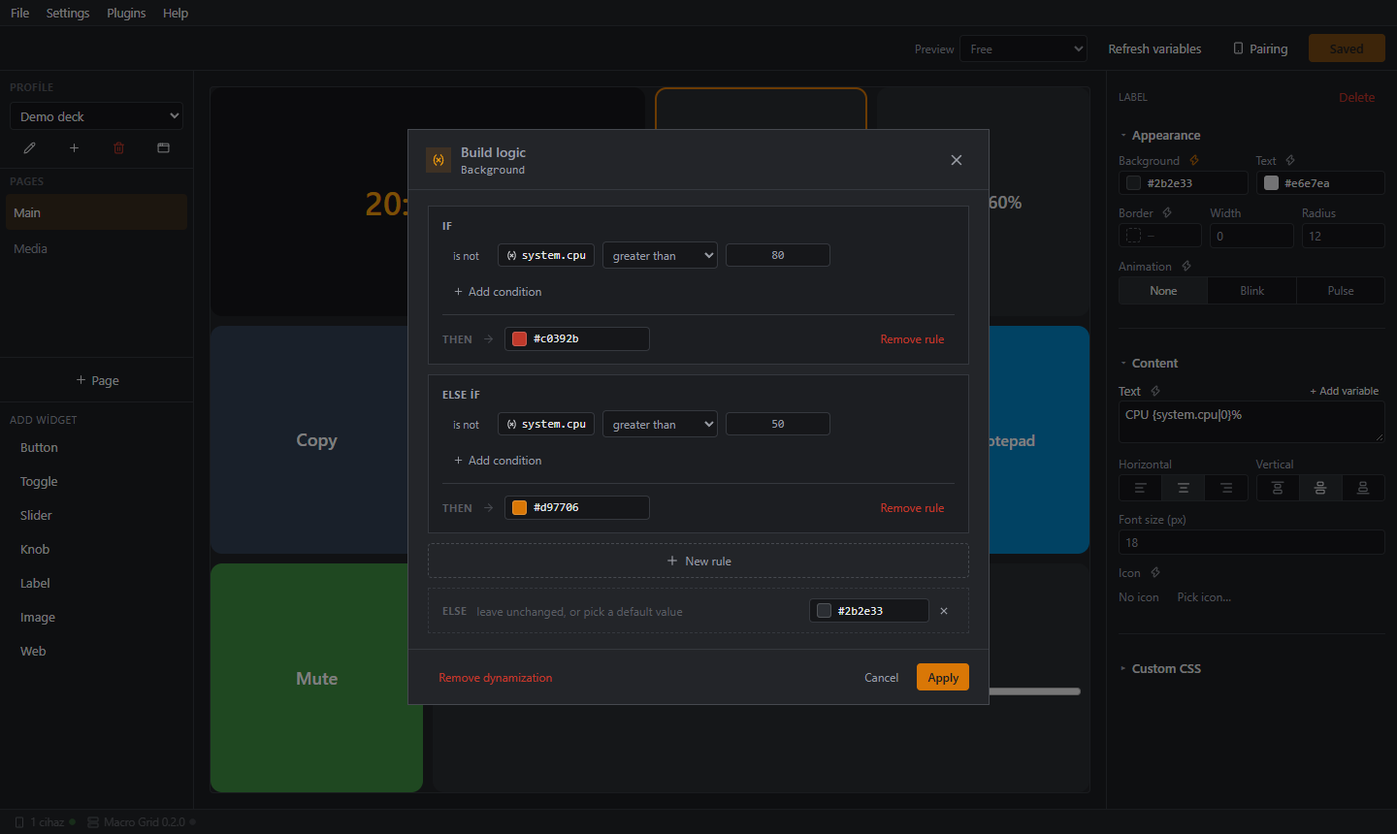
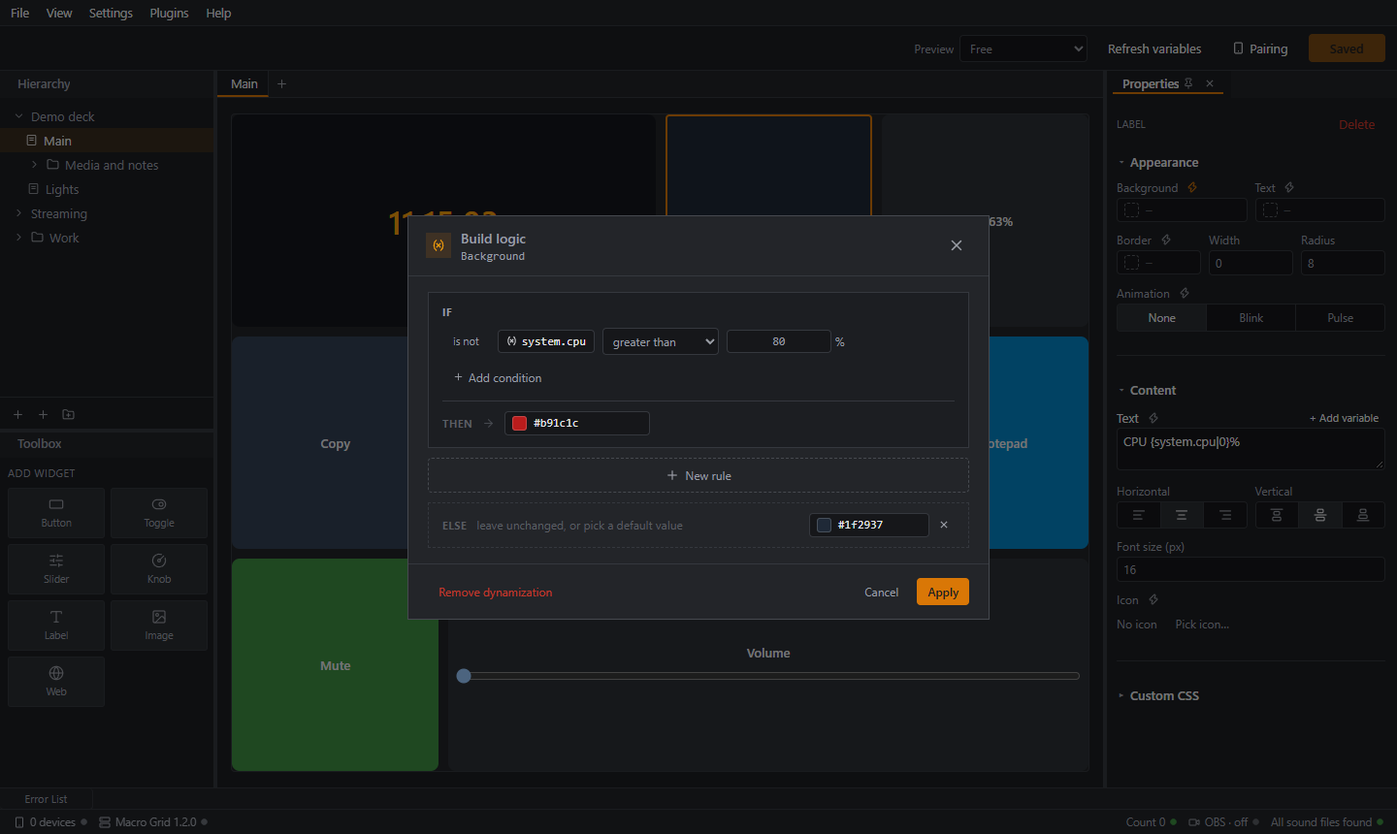
docs(website): refresh editor screenshots and guides for the docking workspace

diff --git a/website/tr/guide/editor.md b/website/tr/guide/editor.md
@@ -1,28 +1,43 @@
 # Düzenleyici
 
-![Demo deck'li Macro Grid düzenleyicisi](/img/editor-overview.png)
+![Macro Grid düzenleyicisi: solda klasörlü Hiyerarşi ağacı, ortada açık sayfa, sağda Özellikler](/img/editor-overview.png)
 
 Düzenleyici, sunucunun kendi penceresinde (sistem tepsisi simgesinden) açılır. Yalnızca bilgisayarın kendisinde çalışır. Ağınızdaki diğer cihazlar açamaz.
 
 ## Yerleşim
 
-- **Menü çubuğu:** **Dosya** (profilleri dışa ve içe aktarma), **Ayarlar** (Tercihler), **Eklentiler** (Eklentileri Yönet), **Yardım** (sürüm, hakkında ve sorumluluk reddi, lisanslar, kullanıcı sözleşmesi).
-- **Üst bölüm:** profil seçici, önizleme için cihaz boyutu, **Önizleme**, **Değişkenleri yenile**, **Eşleştirme** ve **Kaydet**.
-- **Sayfalar paneli:** geçerli profilin sayfaları. Sayfa ekleyebilir, yeniden adlandırabilir, çoğaltabilir, silebilir ya da başka bir profile kopyalayabilirsiniz.
-- **Tuval:** ızgara. Widget'ları sürükleyin, köşeden boyutlandırın, sağ tıklayarak menü açın.
-- **Denetçi:** seçili widget'ın (hiçbir şey seçili değilse sayfanın) özellikleri.
+Düzenleyici, istediğiniz gibi düzenleyebileceğiniz panellerden oluşan bir çalışma alanıdır. Varsayılan yerleşimde solda Hiyerarşi ve Araç Kutusu, ortada sayfa sekmeleri ve ızgara, sağda Özellikler bulunur.
+
+- **Menü çubuğu:** **Dosya** (profilleri dışa ve içe aktarma), **Görünüm** (panelleri gösterme veya gizleme, yerleşimleri kaydetme), **Ayarlar** (Tercihler), **Eklentiler** (Eklentileri Yönet), **Yardım** (sürüm, hakkında ve sorumluluk reddi, lisanslar, kullanıcı sözleşmesi).
+- **Üst bölüm:** önizleme için cihaz boyutu, **Önizleme**, **Değişkenleri yenile**, **Eşleştirme** ve **Kaydet**.
+- **Hiyerarşi:** tüm profillerin ve sayfalarının tek bir ağaçta gösterildiği panel. Ekleyebilir, yeniden adlandırabilir, çoğaltabilir, silebilir ve klasörlerde gruplayabilirsiniz. Bkz. [Profiller ve sayfalar](/tr/guide/profiles).
+- **Araç Kutusu:** widget türleri. Birine tıklayarak açık sayfaya ekleyin.
+- **Sayfa sekmeleri ve tuval:** açtığınız her sayfa bir sekme olur. Tuval ızgaradır: widget'ları sürükleyin, köşeden boyutlandırın, sağ tıklayarak menü açın.
+- **Özellikler:** seçtiğiniz şeyin özellikleri: bir widget, sayfa ya da profil.
+- **Hata Listesi:** önem derecesine göre süzülebilen sorun listesi. Pencerenin alt kenarında durur, tıklayınca yukarı açılır. Şimdilik bir şey bildirmedikçe "Sorun yok" gösterir.
 - **Durum çubuğu:** sunucu sürümü, bağlı cihazlar, eklenti durumu ve aksiyon hataları.
+
+## Panelleri düzenleme
+
+- **Paneli taşıma:** sekmesini sürükleyin. Başka bir panelin yanına bırakırsanız alan bölünür, sekme çubuğuna bırakırsanız sekme olarak üst üste gelir.
+- **Otomatik gizleme:** panelin sekmesindeki iğne simgesine tıklayınca panel pencerenin kenarına iner. Adına tıklayınca açılır, iğneye yeniden basınca yerine oturur. Hata Listesi böyle başlar.
+- **Kapatma ve geri açma:** paneli sekmesindeki **✕** ile kapatın, **Görünüm** menüsünden geri getirin. Menü Hiyerarşi, Araç Kutusu, Özellikler ve Hata Listesi'ni listeler, açık olanların yanında onay işareti vardır.
+- **Yerleşimler:** **Görünüm → Yerleşimler → Kaydet** mevcut düzeni bir adla saklar. Kayıtlı bir yerleşimi aynı menüden seçerek geçiş yapın, **Sil** birini kaldırır, **Varsayılan** özgün düzeni geri getirir.
+
+![Yerleşimler alt menüsüyle Görünüm menüsü](/img/editor-layouts.png)
+
+![Alt kenardan açılmış Hata Listesi](/img/editor-errorlist.png)
 
 ## Izgarada çalışma
 
-Bir widget seçtiğinizde sağdaki denetçi görünümünü, içeriğini ve aksiyonlarını gösterir:
+Bir widget seçtiğinizde sağdaki Özellikler paneli görünümünü, içeriğini ve aksiyonlarını gösterir:
 
 ![Seçili bir widget için denetçi](/img/editor-inspector.png)
 
-- **Widget ekle**'yi seçip bir tür belirleyin. Widget ilk boş hücreye yerleşir ("Sayfada boş hücre kalmadı" ızgaranın dolu olduğu anlamına gelir. Sayfa özelliklerinden büyütün).
+- **Araç Kutusu**'ndan bir tür seçin. Widget ilk boş hücreye yerleşir ("Sayfada boş hücre kalmadı" ızgaranın dolu olduğu anlamına gelir. Sayfa özelliklerinden büyütün).
 - Taşımak için sürükleyin, boyutunu değiştirmek için **Boyutlandır** tutamacını sürükleyin. Widget'lar ızgaraya oturur ve üst üste binemez.
 - Birden fazla widget seçerek bunları **çoğaltabilir**, başka bir sayfaya veya profile **taşıyabilir ya da kopyalayabilir** veya silebilirsiniz.
-- Sayfa özellikleri: **İsim**, **Grid** (sütun ve satır), **Boşluk (gap)**, **Kenar boşluğu (padding)**, **Hizalama** (başa, ortaya, sona).
+- Sayfayı seçin (Hiyerarşi'de adına tıklayın) ve özelliklerini düzenleyin: **İsim**, **Grid** (sütun ve satır), **Boşluk (gap)**, **Kenar boşluğu (padding)**, **Hizalama** (başa, ortaya, sona).
 
 ## Önizleme
 
@@ -31,6 +46,16 @@ Cihaz boyutu listesi (telefon veya tablet, dikey veya yatay, serbest ya da özel
 ## Kaydetme
 
 **Kaydet**'e tıklamadan hiçbir şey cihazlarınıza ulaşmaz. Kaydetme, bağlı cihazlara **yalnızca değişenleri** gönderir, bu yüzden deck yanıp sönmez ya da sıfırlanmaz. Kaydedilmemiş değişiklikler varken çıkarsanız düzenleyici önce sorar.
+
+## Klavye kısayolları
+
+| Tuşlar | Ne yapar |
+|---|---|
+| **Ctrl+S** | Kaydet |
+| **Ctrl+C** / **Ctrl+V** | Hiyerarşi'de seçili sayfayı, profili ya da klasörü kopyalar ve yapıştırır |
+| **F2** | Hiyerarşi'de seçili satırı yeniden adlandırır |
+
+Bir metin alanına yazarken Ctrl+C ve Ctrl+V her zamanki gibi metni kopyalar ve yapıştırır.
 
 ## Dil ve tema
 

diff --git a/website/guide/editor.md b/website/guide/editor.md
@@ -1,28 +1,43 @@
 # The editor
 
-![The Macro Grid editor with a demo deck](/img/editor-overview.png)
+![The Macro Grid editor: Hierarchy tree with folders on the left, the open page in the middle, Properties on the right](/img/editor-overview.png)
 
 The editor opens in the server's own window (from the tray icon). It only works on the PC itself. Other devices on your network cannot open it.
 
 ## Layout
 
-- **Menu bar:** **File** (export and import profiles), **Settings** (Preferences), **Plugins** (Manage Plugins), **Help** (version, about and disclaimer, licenses, user agreement).
-- **Header:** the profile picker, a device size for the preview, **Preview**, **Refresh variables**, **Pairing**, and **Save**.
-- **Pages panel:** the pages of the current profile. Add, rename, duplicate, delete, or copy a page to another profile.
-- **Canvas:** the grid. Drag widgets, resize them from the corner, right-click for a menu.
-- **Inspector:** properties of the selected widget (or of the page when nothing is selected).
+The editor is a workspace of panels you can arrange. The default layout has the Hierarchy and Toolbox on the left, the page tabs and the grid in the middle, and Properties on the right.
+
+- **Menu bar:** **File** (export and import profiles), **View** (show or hide panels, save layouts), **Settings** (Preferences), **Plugins** (Manage Plugins), **Help** (version, about and disclaimer, licenses, user agreement).
+- **Header:** a device size for the preview, **Preview**, **Refresh variables**, **Pairing**, and **Save**.
+- **Hierarchy:** one tree with all your profiles and their pages. Add, rename, duplicate, delete and group them in folders. See [Profiles and pages](/guide/profiles).
+- **Toolbox:** the widget types. Click one to add it to the open page.
+- **Page tabs and canvas:** every page you open gets a tab. The canvas is the grid: drag widgets, resize them from the corner, right-click for a menu.
+- **Properties:** the properties of what you selected: a widget, the page, or a profile.
+- **Error List:** a list of problems with a severity filter. It sits at the bottom edge and slides open when you click it; today it shows "No problems" unless something reports one.
 - **Status bar:** server version, connected devices, plugin status and action errors.
+
+## Arranging the panels
+
+- **Move a panel:** drag its tab. Drop it next to another panel to split the space, or onto a panel's tab bar to stack them as tabs.
+- **Auto-hide:** click the pin icon on a panel's tab to collapse it to the edge of the window. Click its name there to slide it open, and pin it again to dock it back. The Error List starts this way.
+- **Close and reopen:** close a panel with the **✕** on its tab, and bring it back from the **View** menu, which lists Hierarchy, Toolbox, Properties and Error List with a check mark on the open ones.
+- **Layouts:** **View → Layouts → Save** stores the current arrangement under a name. Pick a saved layout from the same menu to switch to it, **Delete** removes one, and **Default** restores the original arrangement.
+
+![The View menu with the Layouts submenu](/img/editor-layouts.png)
+
+![The Error List slid open from the bottom edge](/img/editor-errorlist.png)
 
 ## Working on the grid
 
-Select a widget and the inspector on the right shows its appearance, content and actions:
+Select a widget and the Properties panel on the right shows its appearance, content and actions:
 
 ![The inspector for a selected widget](/img/editor-inspector.png)
 
-- Choose **Add widget** and pick a type. It is placed on the first free cell ("No free cell left on this page" means the grid is full; enlarge it in the page properties).
+- Click a type in the **Toolbox**. It is placed on the first free cell ("No free cell left on this page" means the grid is full; enlarge it in the page properties).
 - Drag to move, drag the **Resize** handle to change the size. Widgets snap to the grid and cannot overlap.
 - Select several widgets to **duplicate**, **move or copy** them to another page or profile, or delete them.
-- Page properties: **Name**, **Grid** (columns and rows), **Gap**, **Padding**, **Alignment** (start, center, end).
+- Select the page (click its name in the Hierarchy) to edit its properties: **Name**, **Grid** (columns and rows), **Gap**, **Padding**, **Alignment** (start, center, end).
 
 ## Preview
 
@@ -31,6 +46,16 @@ The device size list (phone or tablet, portrait or landscape, free or custom) ch
 ## Saving
 
 Nothing reaches your devices until you click **Save**. Saving sends **only what changed** to connected devices, so the deck does not flash or reset. If you leave with unsaved changes the editor asks first.
+
+## Keyboard shortcuts
+
+| Keys | What it does |
+|---|---|
+| **Ctrl+S** | Save |
+| **Ctrl+C** / **Ctrl+V** | Copy and paste the selected page, profile or folder in the Hierarchy |
+| **F2** | Rename the selected row in the Hierarchy |
+
+While you type in a text field, Ctrl+C and Ctrl+V copy and paste text as usual.
 
 ## Language and theme
 

diff --git a/website/tr/guide/profiles.md b/website/tr/guide/profiles.md
@@ -2,14 +2,22 @@
 
 **Profil**, eksiksiz bir deck'tir. Bir ya da daha fazla **sayfa** içerir; her sayfa bir widget ızgarasıdır. Profilleri farklı durumlar için kullanın: "İş", "Yayın", "Medya".
 
+## Hiyerarşi
+
+**Hiyerarşi** paneli tüm profilleri ve sayfalarını tek bir ağaçta gösterir. Bir profili açıp kapatmak için yanındaki oka tıklayın. Henüz açılmamış bir profil, ilk açışınızda sayfalarını yükler. Bir sayfaya tıklarsanız sekme olarak açılır. Bir profile tıklarsanız ayarları **Özellikler**'de görünür.
+
+![Hiyerarşi: profiller, sayfalar ve klasörler tek ağaçta, klasör menüsüyle](/img/editor-hierarchy-menu.png)
+
+Panelin altındaki düğmelerle **yeni profil**, **sayfa** ve **yeni klasör** eklenir. Bir satıra sağ tıklayınca menüsü açılır (yeniden adlandır, sil, yeni sayfa ya da klasör). Yeniden adlandırmak için satıra çift tıklayın ya da seçip **F2**'ye basın.
+
 ## Profiller
 
-Üst çubukta geçiş yapmak için **Profil** seçicisini, **yeniden adlandırmak**, **yeni profil** oluşturmak ya da bir profili **silmek** için de yanındaki düğmeleri kullanın. Her profil kendi JSON dosyası olarak saklanır.
+Her profil kendi JSON dosyasında saklanır. Hiyerarşi'de bir profil seçtiğinizde **Özellikler**'de **İsim**, **otomatik geçiş kuralları** ve **Profili Sil** görünür. Son profili silemezsiniz.
 
-Bir cihazın açtığı profil şu sırayla belirlenir:
+Bir cihazın hangi profili açtığı:
 
-1. O cihaza [Eşleştirme](/tr/guide/pairing) bölümünde atadığınız profil, yoksa
-2. [Tercihler](/tr/guide/preferences)'teki **varsayılan profil**, o da yoksa
+1. [Eşleştirme](/tr/guide/pairing)'de o cihaza atadığınız profil, yoksa
+2. [Tercihler](/tr/guide/preferences)'teki **varsayılan profil**, yoksa
 3. ilk profil.
 
 Profil, bir düğmeyle (**Profil değiştir** aksiyonu), telefondaki çekmeceden ya da [uygulama kurallarıyla](/tr/guide/auto-switch) otomatik olarak da değiştirilebilir.
@@ -18,7 +26,23 @@ Profil, bir düğmeyle (**Profil değiştir** aksiyonu), telefondaki çekmeceden
 
 Bir profilin birçok sayfası olabilir. Telefonda aralarında geçmek için iki parmakla sola ya da sağa kaydırın. **Sayfa değiştir** aksiyonlu bir düğme de ekleyebilirsiniz (bir sayfaya git, sonraki, önceki ya da geri).
 
-Sayfalar panelinde sayfa ekleyebilir, yeniden adlandırabilir, çoğaltabilir, silebilir ve **bir sayfayı başka bir profile kopyalayabilirsiniz**. Seçili widget'ları da başka bir sayfaya ya da profile **taşıyabilir veya kopyalayabilirsiniz**.
+Sayfayı ağacın altındaki **Sayfa** düğmesiyle ya da profilin sağ tık menüsünden ekleyin. Sayfa satırındaki simgelerle **çoğaltın** ya da **silin**. Seçili widget'ları başka bir sayfaya ya da profile **taşıyabilir veya kopyalayabilirsiniz**.
+
+## Klasörler
+
+Klasörler uzun listeyi derli toplu tutar. İki türü vardır:
+
+- **Sayfa klasörleri** bir profilin içindedir ve sayfaları (ve başka klasörleri) tutar.
+- **Profil klasörleri** ağacın en üstündedir ve profilleri tutar.
+
+**Yeni Klasör** düğmesi ya da sağ tık menüsüyle oluşturun, sayfa gibi yeniden adlandırın. **Klasörü sil**, klasörün içindekilerle birlikte mi silineceğini, yoksa yalnızca klasörün kaldırılıp **içeriğin korunacağını** sorar.
+
+Klasörler yalnızca düzenleyici içindir. Bir cihaz, sayfalar ve profiller klasörde olsa da olmasa da aynısını görür.
+
+## Sürükle-bırak, kopyala ve yapıştır
+
+- **Sürükleyin:** bir sayfayı klasörün üzerine bırakınca içine girer, klasörden dışarı bırakınca geri çıkar. Profiller ve profil klasörleri için de aynısı geçerlidir.
+- **Kopyala ve yapıştır:** bir sayfaya, profile ya da klasöre tıklayıp **Ctrl+C**'ye basın, sonra konulacağı yere tıklayıp **Ctrl+V**'ye basın. Kopyalanan klasör içindekilerle birlikte gelir. Klasöre yapıştırırsanız kopya klasörün içine girer. Bir sayfayı başka bir profile yapıştırabilirsiniz, bir sayfayı yeniden kullanmanın en hızlı yolu budur.
 
 ## Dışa ve içe aktarma
 

diff --git a/website/guide/profiles.md b/website/guide/profiles.md
@@ -2,9 +2,17 @@
 
 A **profile** is a complete deck. It holds one or more **pages**, and each page is a grid of widgets. Use profiles for different situations: "Work", "Streaming", "Media".
 
+## The Hierarchy
+
+The **Hierarchy** panel shows every profile and its pages in one tree. Click the arrow next to a profile to open or close it; a profile that is not open yet loads its pages the first time you expand it. Click a page to open it as a tab, or click a profile to edit its settings in **Properties**.
+
+![The Hierarchy: profiles, pages and folders in one tree, with the folder menu](/img/editor-hierarchy-menu.png)
+
+The buttons at the bottom of the panel add a **new profile**, a **page** and a **new folder**. Right-click a row for its menu (rename, delete, new page or folder). To rename, double-click a row or select it and press **F2**.
+
 ## Profiles
 
-In the header, use the **Profile** picker to switch, and the buttons to **rename**, create a **new profile** or **delete** one. Each profile is stored as its own JSON file.
+Each profile is stored as its own JSON file. Select a profile in the Hierarchy and **Properties** shows its **Name**, its **auto-switch rules** and **Delete Profile**. You cannot delete the last profile.
 
 Which profile a device opens:
 
@@ -18,7 +26,23 @@ A profile can also be switched by a button (the **Change profile** action), from
 
 A profile can have many pages. On the phone, swipe left or right with two fingers to move between them. You can also add a button with the **Change page** action (go to a page, next, previous or back).
 
-In the pages panel you can add, rename, duplicate and delete pages, and **copy a page to another profile**. Selected widgets can be **moved or copied** to another page or profile, too.
+Add a page with the **Page** button under the tree or from a profile's right-click menu. Use the icons on a page row to **duplicate** or **delete** it. Selected widgets can be **moved or copied** to another page or profile.
+
+## Folders
+
+Folders keep a long list tidy. There are two kinds:
+
+- **Page folders** sit inside a profile and hold pages (and other folders).
+- **Profile folders** sit at the top of the tree and hold profiles.
+
+Create one with the **New Folder** button or the right-click menu, then rename it the same way as a page. **Delete folder** asks whether to delete the folder together with everything in it, or to **keep the contents** and remove only the folder.
+
+Folders are only for the editor. A device sees the same pages and profiles in the same way whether or not they are in a folder.
+
+## Drag and drop, copy and paste
+
+- **Drag** a page onto a folder to put it inside, or out of a folder to bring it back. The same works for profiles and profile folders.
+- **Copy and paste:** click a page, profile or folder and press **Ctrl+C**, then click where it should go and press **Ctrl+V**. A copied folder brings its whole contents. Pasting on a folder puts the copy inside it. You can paste a page into a different profile, which is the quickest way to reuse a page.
 
 ## Export and import
 

diff --git a/website/tr/tutorials/volume-slider.md b/website/tr/tutorials/volume-slider.md
@@ -4,8 +4,8 @@ Windows ana ses düzeyini ayarlayan ve ses başka bir yerden değiştiğinde onu
 
 **Gerekenler:** eşleşmiş bir cihaz (bkz. [Cihaz eşleştir](/tr/guide/pairing)).
 
-1. Düzenleyicide **Widget ekle**'ye tıklayın ve **Slider**'ı seçin. Geniş olacak şekilde yeniden boyutlandırın (tam bir satır iyi çalışır).
-2. Denetçi panelinde **Min**'i `0`, **Maks**'ı `100` ve **Adım**'ı `1` yapın. `Ses` gibi bir üst yazı verin.
+1. Düzenleyicide **Araç Kutusu**'nda **Slider**'a tıklayın. Geniş olacak şekilde yeniden boyutlandırın (tam bir satır iyi çalışır).
+2. Özellikler panelinde **Min**'i `0`, **Maks**'ı `100` ve **Adım**'ı `1` yapın. `Ses` gibi bir üst yazı verin.
 3. **Konumu gösteren değişken** altında `system.audio.master` seçin. Slider artık geçerli ses düzeyini gösterir ve değiştiğinde hareket eder.
 4. **Aksiyonlar** altında, **Değer değişti** olayında **+ Aksiyon ekle**'ye tıklayın ve **Ana ses seviyesi**'ni seçin. Slider'ın değerini uygular.
 5. **Kaydet**'e tıklayın.

diff --git a/website/tr/tutorials/profile-per-app.md b/website/tr/tutorials/profile-per-app.md
@@ -2,7 +2,7 @@
 
 Medya oynatıcı öndeyken telefonunuz bir medya deck'i göstersin, sonrasında normal deck'inize dönsün. Arka plan: [Uygulamaya göre otomatik geçiş](/tr/guide/auto-switch).
 
-1. Birkaç butonlu `Media` adlı bir profil oluşturun (başlıktaki **Yeni profil**): oynat/duraklat, sonraki, önceki (medya tuşlarıyla ya da oynatıcının kendi kısayollarıyla **Kısayol tuşu** kullanın).
+1. Birkaç butonlu `Media` adlı bir profil oluşturun (Hiyerarşi'nin altındaki **Yeni profil** düğmesi): oynat/duraklat, sonraki, önceki (medya tuşlarıyla ya da oynatıcının kendi kısayollarıyla **Kısayol tuşu** kullanın).
 2. `Media` seçiliyken **Otomatik geçiş kuralları**'nı açın ve **Çalışan uygulamadan seç…**'e tıklayın. Listede çıkması için önce oynatıcınızı başlatın ya da çalıştırılabilir dosya adını yazın, örneğin `Player.exe`, ve **Ekle**'ye tıklayın.
 3. **Eşleştirme**'yi açın ve telefonunuz için **Aktif pencereyi takip et**'i açın.
 4. **Kaydet**.

diff --git a/docs/plans/hierarchy-tree-and-folders-plan.md b/docs/plans/hierarchy-tree-and-folders-plan.md
@@ -1,6 +1,6 @@
 # Hierarchy tree: every profile and page, folders, drag-and-drop
 
-**Status:** planned, not started. Build after [docking-workspace-plan.md](docking-workspace-plan.md) and phases 1 and 2 of
+**Status:** built in 1.2.0 except phase 6 (plugin-provided tree entries, plugin SDK), which is not started. The tree, page and profile folders, drag-and-drop, copy and paste and lazy-loaded profiles are in. User guide: `website/guide/profiles.md`. Build after [docking-workspace-plan.md](docking-workspace-plan.md) and phases 1 and 2 of
 [editor-edit-commands-plan.md](editor-edit-commands-plan.md). **Repositories:** `macro-grid` (`editor/`, `src/MacroGrid.Core`,
 `src/MacroGrid.Host`, `packages/renderer`; phase 6 also `src/MacroGrid.Plugin.Abstractions`, the plugin SDK). Phase 6's first use
 (SoundBoard) is in `macro-grid-plugin`. The phone app (`macro-grid-client`) needs no change: the new fields are optional and it ignores

diff --git a/website/tutorials/volume-slider.md b/website/tutorials/volume-slider.md
@@ -4,8 +4,8 @@ Build a slider that sets the Windows master volume and follows it when the volum
 
 **You need:** a paired device (see [Pair a device](/guide/pairing)).
 
-1. In the editor click **Add widget** and choose **Slider**. Resize it so it is wide (a full row works well).
-2. In the inspector set **Min** to `0`, **Max** to `100` and **Step** to `1`. Give it a caption such as `Volume`.
+1. In the editor's **Toolbox**, click **Slider**. Resize it so it is wide (a full row works well).
+2. In the Properties panel set **Min** to `0`, **Max** to `100` and **Step** to `1`. Give it a caption such as `Volume`.
 3. Under **Variable driving its position** pick `system.audio.master`. The slider now shows the current volume and moves when it changes.
 4. Under **Actions**, on **Value changed**, click **+ Add action** and choose **Master volume**. It applies the slider's value.
 5. Click **Save**.

diff --git a/website/tutorials/profile-per-app.md b/website/tutorials/profile-per-app.md
@@ -2,7 +2,7 @@
 
 Make your phone show a media-player deck whenever the player is in front, and go back to your normal deck afterwards. Background: [Auto-switching by app](/guide/auto-switch).
 
-1. Create a profile called `Media` (**New profile** in the header) with a few buttons: play/pause, next, previous (use **Shortcut** with the media keys or the player's own hotkeys).
+1. Create a profile called `Media` (the **New profile** button under the Hierarchy) with a few buttons: play/pause, next, previous (use **Shortcut** with the media keys or the player's own hotkeys).
 2. With `Media` selected, open **Auto-switch rules** and click **Pick from running apps…**. Start your player first so it is in the list, or type its executable name, for example `Player.exe`, and click **Add**.
 3. Open **Pairing** and switch on **Follow active window** for your phone.
 4. **Save**.

diff --git a/docs/plans/docking-workspace-plan.md b/docs/plans/docking-workspace-plan.md
@@ -1,6 +1,6 @@
 # Docking workspace for the editor
 
-**Status:** planned, not started. **Repositories:** `macro-grid` only (`editor/` and `src/MacroGrid.Host`, `src/MacroGrid.Core`).
+**Status:** built in 1.2.0 (the docking workspace, tool windows, auto-hide rail, tabbed document area, saved layouts and the Error List). The Error List has no producer yet, see `../roadmap.md`. User guide: `website/guide/editor.md`. **Repositories:** `macro-grid` only (`editor/` and `src/MacroGrid.Host`, `src/MacroGrid.Core`).
 No change to the plugin SDK, the WebSocket protocol or the phone app.
 
 Related plans, built after this one: [editor-edit-commands-plan.md](editor-edit-commands-plan.md) (Edit menu, clipboard, undo/redo,

diff --git a/website/tr/guide/index.md b/website/tr/guide/index.md
@@ -27,7 +27,7 @@ Devamı: [Cihaz eşleştirme](/tr/guide/pairing).
 
 ## 3. İlk butonunuzu yapın
 
-1. **Widget ekle**'ye tıklayıp **Buton**'u seçin. Buton, ızgaranın boş bir hücresine yerleşir.
+1. **Araç Kutusu**'nda **Buton**'a tıklayın. Buton, ızgaranın boş bir hücresine yerleşir.
 2. Butonu seçin ve **Metin** alanını doldurun, örneğin `CPU {system.cpu|0}%`. `{...}` kısmı canlı bir değerdir.
 3. **Aksiyonlar** bölümünde **Basınca** olayı için **+ Aksiyon ekle**'ye tıklayıp **Kısayol**'u seçin. Alana tıklayın ve tuş kombinasyonuna basın, örneğin `Ctrl+Shift+S`.
 4. **Kaydet**'e tıklayın. Telefon hemen güncellenir. Butona basın, bilgisayar kısayolu alır.

diff --git a/website/guide/index.md b/website/guide/index.md
@@ -27,7 +27,7 @@ More: [Pair a device](/guide/pairing).
 
 ## 3. Make your first button
 
-1. Click **Add widget** and choose **Button**. It lands on a free cell of the grid.
+1. In the **Toolbox**, click **Button**. It lands on a free cell of the grid.
 2. Select it and set its **Text**, for example `CPU {system.cpu|0}%`. The `{...}` part is a live value.
 3. Under **Actions**, on **Press**, click **+ Add action** and pick **Shortcut**. Click the field and press your combination, for example `Ctrl+Shift+S`.
 4. Click **Save**. The phone updates right away. Press the button and the PC receives the shortcut.
